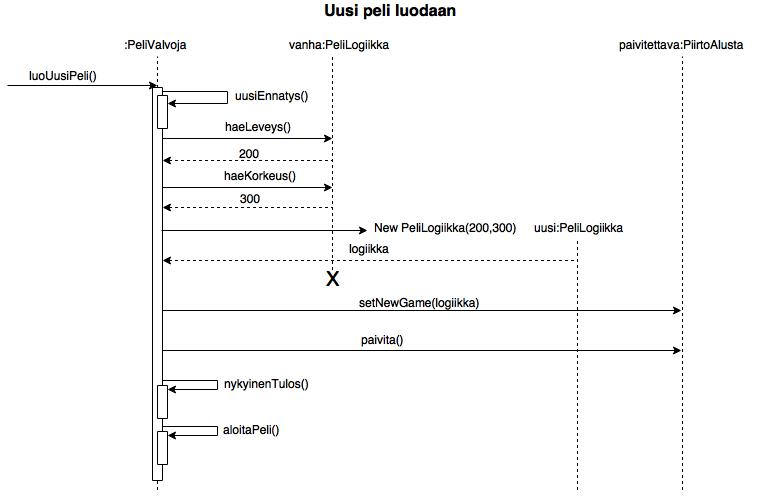
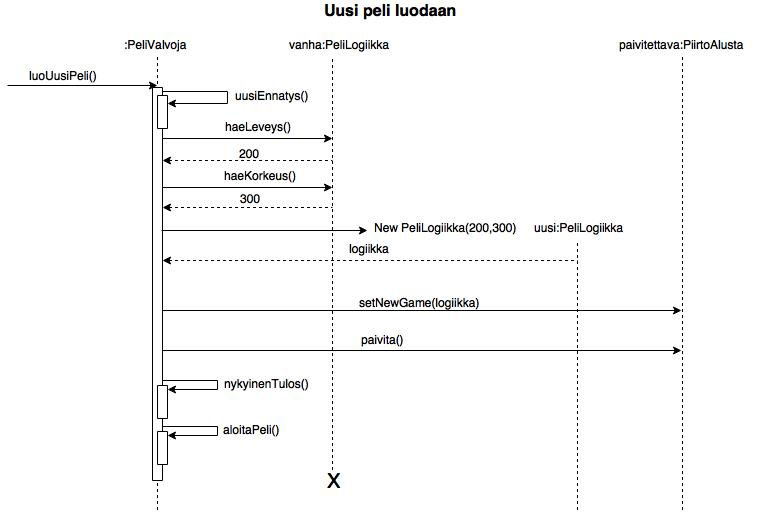
Update

diff --git a/dokumentointi/tuntikirjanpito.md b/dokumentointi/tuntikirjanpito.md
@@ -77,3 +77,13 @@
 #####Ma 8.6.2015
 * 30min
 * Luokkakaavion päivittäminen
+
+#####Ti 9.6.2015
+* 1,5h
+* Koodin hiomista ja dokumenttien päivittämistä
+
+#####Ke 10.6.2015
+* 1h
+* Sekvenssikaavioiden päivitys ja lisäys
+* 2h
+* Koodikatselmointi projektille *"KurssiKirjaajaKalenteri"*
